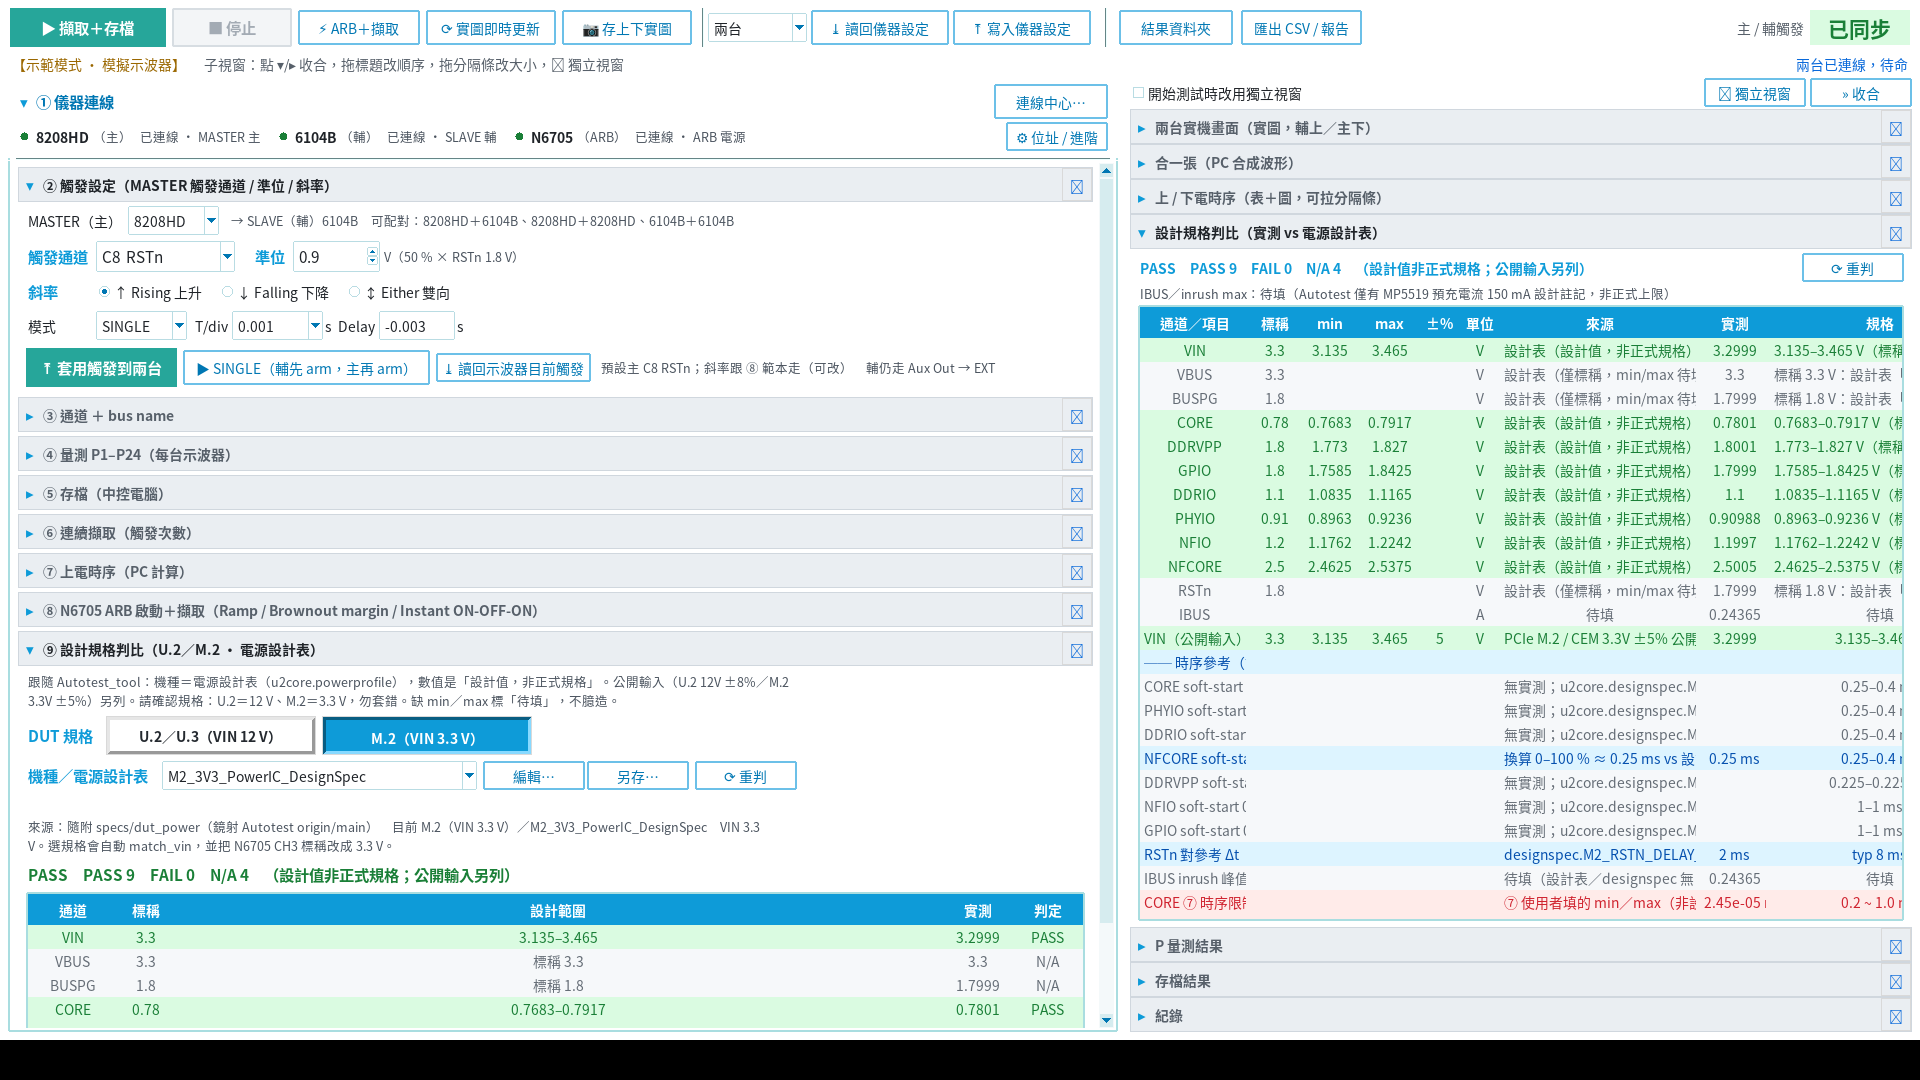
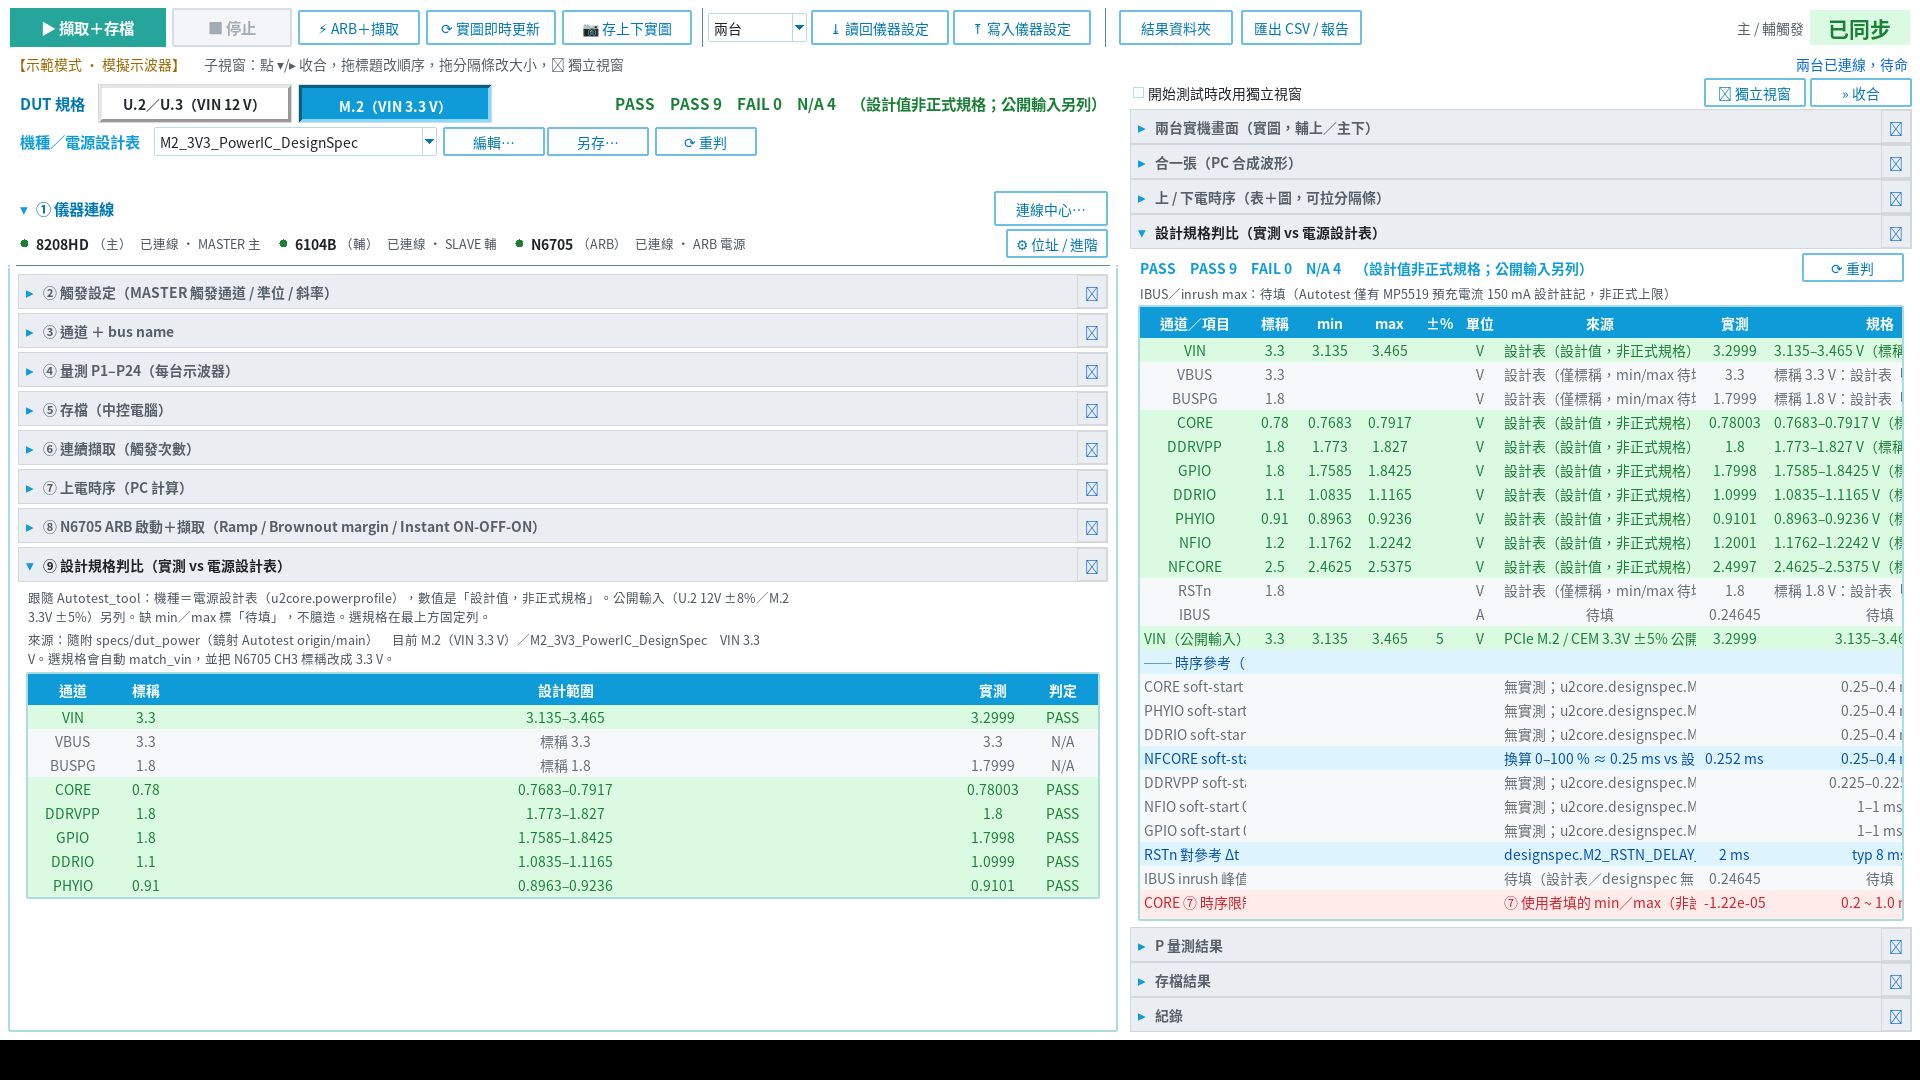
DUT 規格選擇列移到最上方（① 儀器連線之上）；⑨ 只留可收合的判比表
U.2／M.2、機種／電源設計表與總判定改為固定列，不隨左欄捲動或收合。
舊 ui_layout.json 升到 version 2（不重寫使用者拖過的卡片順序）。

Changed region(s): [[0.0, 0.0611, 0.5938, 0.9778], [0.875, 0.4583, 0.9375, 0.4889], [0.875, 0.825, 0.9062, 0.8556]]

diff --git a/scope_wave_saver/gui.py b/scope_wave_saver/gui.py
@@ -3,8 +3,8 @@
 
 版型照 All in Test tool《UI設計風格說明.md》：u2core.theme.apply、工具列 ▶/■ + action_row、狀態列、
 UnifiedBody（左：① 儀器連線 + ②③… 設定卡片；右：執行監看）。
-子視窗（①–⑨、時序表／圖、規格判比、紀錄、NVMe…）可點 ▾/▸ 收合、拖標題排序、拖分隔條改大小、⧉ 獨立視窗；狀態寫入 ui_layout.json。
-⑨ 設計規格判比跟隨 Autotest_tool（u2core.dutspec／powerprofile／designspec.compare；U2_TOOL_DIR 沒有就用隨附 specs/dut_power）。
+DUT 規格（U.2／M.2＋機種／電源設計表＋總判定）放在最上方、① 儀器連線之上的固定列。子視窗（①–⑨、時序表／圖、規格判比表、紀錄、NVMe…）可點 ▾/▸ 收合、拖標題排序、拖分隔條改大小、⧉ 獨立視窗；狀態寫入 ui_layout.json。
+⑨ 是設計規格判比表（跟隨 Autotest_tool u2core.dutspec／powerprofile／designspec.compare；U2_TOOL_DIR 沒有就用隨附 specs/dut_power）。
 右側主畫面 = 兩部示波器「實圖」（SCREEN_DUMP）上下無縫接合：上 = 輔（SLAVE）、下 = 主（MASTER），時間格對齊。
 「合一張」可與實圖同時展開：用讀回的波形資料在 PC 重畫。存檔一律存上下實圖。
 連續擷取（capture.py）、上電時序（sequencing.py）、USB 自動重連（link.py）。
@@ -168,6 +168,7 @@ class WaveSaverUI(tk.Tk):
             pass
         self._conn(body)
         self._fold_conn(body)
+        self._dut_bar(body)
         page = body.page
         page.columnconfigure(0, weight=1)
         page.rowconfigure(0, weight=1)
@@ -182,7 +183,7 @@ class WaveSaverUI(tk.Tk):
         self._capture_card(self._left_card("cap", "連續擷取（觸發次數）", 6))
         self._seq_card(self._left_card("seq", "上電時序（PC 計算）", 7))
         self._arb_card(self._left_card("arb", "N6705 ARB 啟動＋擷取（Ramp / Brownout margin / Instant ON-OFF-ON）", 8))
-        self._spec_card(self._left_card("spec", "設計規格判比（U.2／M.2 · 電源設計表）", 9))
+        self._spec_card(self._left_card("spec", "設計規格判比（實測 vs 電源設計表）", 9))
         self._monitor(body)
         self.after(200, self._restore_sashes)
         self.after(400, lambda: self.body.pw.bind("<ButtonRelease-1>", lambda _e: self._persist_sash(), add="+"))
@@ -224,7 +225,7 @@ class WaveSaverUI(tk.Tk):
             pass
 
     def _apply_fold(self, fold="", unfold=""):
-        """測試 / 截圖：強制收合或展開指定 key（逗號分隔：conn,trig,ch,pm,save,cap,seq,arb,shots,waves,seqv,pmt,saved,log,nvme）。"""
+        """測試 / 截圖：強制收合或展開指定 key（逗號分隔：conn,trig,ch,pm,save,cap,seq,arb,spec,shots,waves,seqv,specv,pmt,saved,log,nvme）。DUT 規格選擇列在最上方，不收進 fold。"""
         def keys(s):
             return [k.strip() for k in (s or "").split(",") if k.strip()]
         for k in keys(fold):
@@ -868,47 +869,62 @@ class WaveSaverUI(tk.Tk):
             return v
         return VNOM.get(name, default) or default
 
-    def _spec_card(self, f):
-        """⑨ 選 DUT 規格（U.2／M.2）＋ 機種（電源設計表），對照實測 PASS／FAIL。慣例同 Autotest powerprofile_ui。"""
-        tip = ttk.Label(f, text="跟隨 Autotest_tool：機種＝電源設計表（u2core.powerprofile），"
-                                "數值是「設計值，非正式規格」。公開輸入（U.2 12V ±8%／M.2 3.3V ±5%）另列。"
-                                "請確認規格：U.2＝12 V、M.2＝3.3 V，勿套錯。缺 min／max 標「待填」，不臆造。",
-                        style="U.Muted.TLabel", wraplength=780, justify="left")
-        tip.pack(anchor="w")
-        row = ttk.Frame(f)
-        row.pack(fill="x", pady=(4, 0))
-        ttk.Label(row, text="DUT 規格", style="Trig.TLabel").pack(side="left", padx=(0, 8))
+    def _dut_bar(self, body):
+        """DUT 規格選擇列：放在 ① 儀器連線上方的固定列（不收進左欄 fold，避免被捲走或收合）。"""
+        top = getattr(body, "_top", None)
+        if top is None:
+            wrap = ttk.Frame(body.left)
+            wrap.pack(fill="x", padx=8, pady=(4, 2))
+        else:
+            for w in top.grid_slaves():
+                info = w.grid_info()
+                if str(info.get("row", "0")) == "0":
+                    w.grid_configure(row=1)
+            wrap = ttk.Frame(top, padding=(10, 6, 10, 4))
+            wrap.grid(row=0, column=0, sticky="nsew")
+        self.dut_bar = wrap
+        hd = ttk.Frame(wrap)
+        hd.pack(fill="x")
+        ttk.Label(hd, text="DUT 規格", style="U.Sec.TLabel").pack(side="left", padx=(0, 8))
         self.v_spec_form = tk.StringVar(self, value="U2")
         self._spec_form_btns = {}
+        short = {"U2": "U.2／U.3（VIN 12 V）", "M2": "M.2（VIN 3.3 V）"}
         for key in SC.DUT.ORDER:
-            b = tk.Button(row, text=SC.DUT.SPECS[key][1], font=(self.fam, 10, "bold"),
-                          width=22, cursor="hand2", bd=3, relief="raised",
+            b = tk.Button(hd, text=short.get(key, SC.DUT.SPECS[key][1]), font=(self.fam, 10, "bold"),
+                          width=20, cursor="hand2", bd=3, relief="raised",
                           command=lambda k=key: self._apply_spec(form=k))
             b.pack(side="left", padx=3)
             self._spec_form_btns[key] = b
-        row2 = ttk.Frame(f)
-        row2.pack(fill="x", pady=(6, 0))
+        self.v_spec_overall = tk.StringVar(self, value="尚未判比")
+        self.lb_spec_overall = tk.Label(hd, textvariable=self.v_spec_overall, font=(self.fam, 11, "bold"),
+                                        fg="#0E9BD8", bg="#FFFFFF", anchor="e")
+        self.lb_spec_overall.pack(side="right", padx=(8, 0))
+        row2 = ttk.Frame(wrap)
+        row2.pack(fill="x", pady=(4, 0))
         ttk.Label(row2, text="機種／電源設計表", style="Trig.TLabel").pack(side="left", padx=(0, 8))
         names = SC.PP.names() or [SC.DEFAULT]
         self.v_spec_profile = tk.StringVar(self, value=SC.PP.get() or names[0])
         self.cb_spec_profile = ttk.Combobox(row2, textvariable=self.v_spec_profile, values=names,
-                                            state="readonly", width=36)
+                                            state="readonly", width=32)
         self.cb_spec_profile.pack(side="left", padx=4)
         self.cb_spec_profile.bind("<<ComboboxSelected>>", lambda _e: self._apply_spec(profile=self.v_spec_profile.get()))
         ttk.Button(row2, text="編輯…", style="U.Small.TButton", command=self._spec_edit).pack(side="left", padx=2)
         ttk.Button(row2, text="另存…", style="U.Small.TButton", command=lambda: self._spec_edit(save_as=True)).pack(side="left")
         ttk.Button(row2, text="⟳ 重判", style="U.Small.TButton", command=lambda: self._spec_refresh()).pack(side="left", padx=6)
         self.v_spec_warn = tk.StringVar(self, value="")
-        ttk.Label(f, textvariable=self.v_spec_warn, foreground="#9a6700", wraplength=780, justify="left").pack(anchor="w")
+        ttk.Label(wrap, textvariable=self.v_spec_warn, foreground="#9a6700", wraplength=780, justify="left").pack(anchor="w")
+        self.after(350, lambda: self._apply_spec(form=getattr(self, "_want_form", None) or "U2",
+                                                 profile=getattr(self, "_want_profile", None)))
+
+    def _spec_card(self, f):
+        """⑨ 可收合的判比表（選擇列已在最上方固定列）。"""
+        tip = ttk.Label(f, text="跟隨 Autotest_tool：機種＝電源設計表（u2core.powerprofile），"
+                                "數值是「設計值，非正式規格」。公開輸入（U.2 12V ±8%／M.2 3.3V ±5%）另列。"
+                                "缺 min／max 標「待填」，不臆造。選規格在最上方固定列。",
+                        style="U.Muted.TLabel", wraplength=780, justify="left")
+        tip.pack(anchor="w")
         self.v_spec_src = tk.StringVar(self, value="")
         ttk.Label(f, textvariable=self.v_spec_src, style="U.Muted.TLabel", wraplength=780, justify="left").pack(anchor="w")
-        ov = ttk.Frame(f)
-        ov.pack(fill="x", pady=(4, 2))
-        self.v_spec_overall = tk.StringVar(self, value="尚未判比")
-        self.lb_spec_overall = tk.Label(ov, textvariable=self.v_spec_overall, font=(self.fam, 11, "bold"),
-                                        fg="#0E9BD8", bg="#FFFFFF", anchor="w")
-        self.lb_spec_overall.pack(side="left", fill="x", expand=True)
-        # 左欄精簡表（右欄 specv 有完整表）
         cols = ("ch", "nom", "rng", "meas", "ok")
         heads = ("通道", "標稱", "設計範圍", "實測", "判定")
         tv = ttk.Treeview(f, columns=cols, show="headings", height=8)
@@ -920,8 +936,6 @@ class WaveSaverUI(tk.Tk):
             tv.tag_configure(tag, foreground=fg, background=bg)
         tv.pack(fill="x", pady=(2, 0))
         self.tv_spec_left = tv
-        self.after(350, lambda: self._apply_spec(form=getattr(self, "_want_form", None) or "U2",
-                                                 profile=getattr(self, "_want_profile", None)))
 
     def _spec_tab(self, f):
         hd = ttk.Frame(f)
@@ -1017,9 +1031,11 @@ class WaveSaverUI(tk.Tk):
         src = SC.source_report()
         pp = src.get("powerprofile", "")
         short = "u2core.powerprofile" if pp.startswith("u2core") else "隨附 specs/dut_power（鏡射 Autotest origin/main）"
-        self.v_spec_src.set(f"來源：{short}　目前 {SC.form_label()}／{SC.PP.get()}　VIN {vin:g} V。"
-                            f"選規格會自動 match_vin，並把 N6705 CH3 標稱改成 {vin:g} V。")
-        self.v_spec_warn.set(warn or "")
+        if hasattr(self, "v_spec_src"):
+            self.v_spec_src.set(f"來源：{short}　目前 {SC.form_label()}／{SC.PP.get()}　VIN {vin:g} V。"
+                                f"選規格會自動 match_vin，並把 N6705 CH3 標稱改成 {vin:g} V。")
+        if hasattr(self, "v_spec_warn"):
+            self.v_spec_warn.set(warn or "")
         self.log(f"⑨ 規格：{SC.form_label()}　設計表 {SC.PP.get()}　VIN {vin:g} V"
                  + (f"　{warn}" if warn else ""))
         # 重算時序＋判比（_seq_recalc 會叫 _spec_refresh）

diff --git a/scope_wave_saver/foldui.py b/scope_wave_saver/foldui.py
@@ -23,12 +23,16 @@ def layout_path(override=""):
     return os.path.join(os.path.expanduser("~"), ".config", "scope_wave_saver", "ui_layout.json")
 
 
+# v1：左欄 fold 卡片含 ⑨ 選擇列＋表。v2：DUT 規格選擇列改放 ① 上方固定列；「spec」只剩判比表。
+LAYOUT_VERSION = 2
+
+
 class LayoutStore:
     """記住收合狀態、順序、分隔條位置。"""
 
     def __init__(self, path=""):
         self.path = layout_path(path)
-        self.data = {"version": 1, "collapsed": {}, "order": {}, "sash": {}, "weights": {}}
+        self.data = {"version": LAYOUT_VERSION, "collapsed": {}, "order": {}, "sash": {}, "weights": {}}
         self.enabled = bool(self.path) and self.path != "-"
         if self.enabled:
             self.load()
@@ -44,6 +48,20 @@ class LayoutStore:
                         self.data[k] = {}
         except (OSError, json.JSONDecodeError, TypeError):
             pass
+        self._migrate()
+
+    def _migrate(self):
+        """舊 ui_layout.json 升到目前版：選擇列已不在左欄 fold 裡，不重寫使用者拖過的卡片順序。"""
+        try:
+            v = int(self.data.get("version") or 1)
+        except (TypeError, ValueError):
+            v = 1
+        if v >= LAYOUT_VERSION:
+            return
+        # v1 → v2：DUT 規格（U.2／M.2＋機種）移到 ① 上方固定列；left.order 的 spec 仍是判比表卡片
+        self.data["version"] = LAYOUT_VERSION
+        if self.enabled:
+            self.save()
 
     def save(self):
         if not self.enabled:

diff --git a/tests/test_speccmp.py b/tests/test_speccmp.py
@@ -60,3 +60,25 @@ class SpecCmpTest(unittest.TestCase):
 
 if __name__ == "__main__":
     unittest.main()
+
+
+class LayoutMigrateTest(unittest.TestCase):
+    def test_v1_to_v2(self):
+        import json, tempfile, os
+        from scope_wave_saver.foldui import LayoutStore, LAYOUT_VERSION
+        fd, path = tempfile.mkstemp(suffix=".json")
+        os.close(fd)
+        try:
+            with open(path, "w", encoding="utf-8") as f:
+                json.dump({"version": 1, "collapsed": {"spec": False},
+                           "order": {"left": ["trig", "spec", "arb"]},
+                           "sash": {}, "weights": {}}, f)
+            st = LayoutStore(path)
+            self.assertEqual(st.data["version"], LAYOUT_VERSION)
+            # 不重寫使用者拖過的順序；spec 仍是判比表卡片
+            self.assertEqual(st.order("left", ["trig", "ch", "arb", "spec"]), ["trig", "spec", "arb", "ch"])
+            with open(path, encoding="utf-8") as f:
+                saved = json.load(f)
+            self.assertEqual(saved["version"], LAYOUT_VERSION)
+        finally:
+            os.remove(path)

diff --git a/README_zh-TW.md b/README_zh-TW.md
@@ -15,13 +15,13 @@
 | `screenshots/ui_review_settings_scrolled.png` | 左欄捲到下方：P1–P24、存檔 |
 | `screenshots/ui_capture_paused.png` | 連續擷取中拔掉 6104B USB（示範）：6104B 紅燈、「USB 中斷 — 背景重連中」、擷取 **暫停** |
 | `screenshots/ui_seq_powerup.png` / `ui_seq_powerdown.png` | 「上 / 下電時序」分頁：表格（順序、上 / 下電時間、10↔90 % 時間、slew rate、延遲、PASS / FAIL）＋ 時序圖 |
-| `screenshots/ui_1080p.png` | **1920×1080** 畫面（視窗約 1920×1040，留工作列）：① 單列連線狀態、② 預設觸發 **C8 RSTn 0.9 V**、右欄上下實圖縮放到可視區 |
+| `screenshots/ui_1080p.png` | **1920×1080** 畫面（視窗約 1920×1040，留工作列）：最上方 **DUT 規格**（U.2／M.2＋機種下拉＋總判定）、① 單列連線狀態、② 預設觸發 **C8 RSTn 0.9 V**、右欄上下實圖縮放到可視區 |
 | `screenshots/ui_arb_RAMP.png` / `ui_arb_BROWNOUT.png` / `ui_arb_ONOFFON.png` / `ui_arb_rstn.png` | ⑧ N6705 ARB：**一套共用範本**套到「一個」輸出通道（CH1 / CH3 大按鈕選擇，**預設 CH3 VIN 12V**）；三種範本是大按鈕（選中高亮）；斜率跟範本走（Ramp ↑ / Brownout·ON-OFF-ON ↓），觸發主 **C8 RSTn**；CH2 / CH4 在進階裡也可選同一個範本；Linux NVMe rescan 預設關閉 |
 | `screenshots/ui_arb_seq_onoffon.png` | ARB ON-OFF-ON 擷取後的「上 / 下電時序」分頁 |
 | `screenshots/ui_settings_capture_seq.png` | 左欄 ⑥ 連續擷取（N 次、進度）、⑦ 上電時序設定（每條 rail 門檻、上 / 下電延遲限制） |
 | `screenshots/ui_folded.png` | 子視窗收合示範：左欄部分卡片（③④⑥）收合只留 ▸ 標題；右欄實圖與紀錄同時展開、中間可拉分隔條；時序 / 合成波形收合 |
-| `screenshots/ui_spec_U2.png` | ⑨ 設計規格判比：**U.2／U.3（VIN 12 V）**＋機種 `U2_12V_PowerIC_DesignSpec`；實測 vs 設計範圍 PASS／FAIL（設計值，非正式規格）；公開輸入 12V ±8% 另列；N6705 CH3 標稱為 12 V |
-| `screenshots/ui_spec_M2.png` | ⑨ 選 **M.2（VIN 3.3 V）** 自動換 `M2_3V3_PowerIC_DesignSpec`，內部 rail 電壓跟著設計表變；N6705 CH3 標稱改成 3.3 V |
+| `screenshots/ui_spec_U2.png` | 最上方選 **U.2／U.3（VIN 12 V）**＋機種 `U2_12V_PowerIC_DesignSpec`、總判定；⑨／右欄是實測 vs 設計範圍表（設計值，非正式規格；公開輸入 12V ±8% 另列）；N6705 CH3 標稱為 12 V |
+| `screenshots/ui_spec_M2.png` | 最上方選 **M.2（VIN 3.3 V）** 自動換 `M2_3V3_PowerIC_DesignSpec`，內部 rail 電壓跟著設計表變；N6705 CH3 標稱改成 3.3 V |
 
 ## 畫面存檔
 
@@ -89,9 +89,9 @@
 - **Linux NVMe rescan（選用，預設關閉）**：⑧ 最下方勾選才展開（主機 / 帳號／密碼、認碟表）；沒勾不佔空間、不連線、**不 import paramiko**。啟用後 ARB 每次擷取會 PCIe rescan，用 `nvme list -o json`（沒有則 sysfs + lsblk）列出 `/dev/nvmeXn1`、型號、序號、容量、韌體、PCIe BDF、Link，寫紀錄與 `summary.csv`。示範模式為模擬資料。
 
 
-## ⑨ 設計規格判比（U.2／M.2 · 電源設計表）
+## DUT 規格（最上方固定列）＋ ⑨ 設計規格判比表
 
-跟隨 **Autotest_tool**（`U2_TOOL_DIR`／`u2core`）的慣例，不另造一套機種表：
+跟隨 **Autotest_tool**（`U2_TOOL_DIR`／`u2core`）的慣例，不另造一套機種表。**U.2／M.2 選擇、機種／電源設計表下拉、總判定**放在左欄最上方、① 儀器連線之上的固定列（不隨左欄捲動、不收合）。⑨ 與右欄「設計規格判比」是可收合的對照表。
 
 - **DUT 規格**（`u2core.dutspec`）：U.2／U.3（VIN 12 V）或 M.2（VIN 3.3 V）。選了會用 `powerprofile.match_vin` 自動換對應的電源設計表，並把 **N6705 CH3（VIN）標稱**改成 12 V 或 3.3 V，ARB Ramp／Brownout／ON-OFF-ON 的準位跟著改。
 - **機種** = Autotest 的「電源設計表」（`u2core.powerprofile.names()`），不是一長串 SSD SKU。隨附兩份與 Autotest `origin/main` `dut_power/` **同檔**：

diff --git a/README.md b/README.md
@@ -3,7 +3,7 @@
 Teledyne LeCroy **WaveRunner 8208HD（主 MASTER，8 CH）＋ HDO6104B（輔 SLAVE，4 CH）** 雙示波器遠端控制工具：
 觸發設定、bus name、P1–P24 量測；連線後背景自動對時、Auto scale、主 Aux Out → 輔 EXT 主從觸發，兩台實圖同時看，波形存到中控電腦。
 
-Keysight **N6705** ARB uses one shared template (Ramp / Brownout margin / Instant ON-OFF-ON) applied to a **single** selected channel (CH1 / CH3 selector, default **CH3 VIN 12V**; CH2/CH4 under Advanced). Default master trigger is **C8 RSTn**. Window sized for 1920×1080. Sub-panels (①–⑨, timing table/plot, spec compare, log, …) collapse, drag-reorder, sash-resize, or detach; layout is saved. Card ⑨ compares measured rails against Autotest_tool **電源設計表** (U.2 / M.2 model list, `dut_power` JSON, `powerprofile.rng` + `designspec.compare`); selecting the form factor sets N6705 CH3 VIN to 12 V or 3.3 V. `summary.csv` records **ARB 通道** plus **規格／電源設計表／規格總判定／規格明細**.
+Keysight **N6705** ARB uses one shared template (Ramp / Brownout margin / Instant ON-OFF-ON) applied to a **single** selected channel (CH1 / CH3 selector, default **CH3 VIN 12V**; CH2/CH4 under Advanced). Default master trigger is **C8 RSTn**. Window sized for 1920×1080. Sub-panels (①–⑨, timing table/plot, spec compare, log, …) collapse, drag-reorder, sash-resize, or detach; layout is saved. The **DUT 規格** selector (U.2 / M.2 + 電源設計表 dropdown + overall verdict) sits in a fixed bar above ① 儀器連線. Card ⑨ is the collapsible measured-vs-spec table (Autotest_tool `dut_power` JSON, `powerprofile.rng` + `designspec.compare`); selecting the form factor sets N6705 CH3 VIN to 12 V or 3.3 V. `summary.csv` records **ARB 通道** plus **規格／電源設計表／規格總判定／規格明細**.
 
 預設為示範模式（模擬示波器 ＋ 模擬 N6705 跑完整流程：ARB＋擷取、連續擷取、上 / 下電時序與 slew rate、USB 自動重連）；`--real` 接實機，尚未實機測試。完整說明：[`README_zh-TW.md`](README_zh-TW.md)。
 
